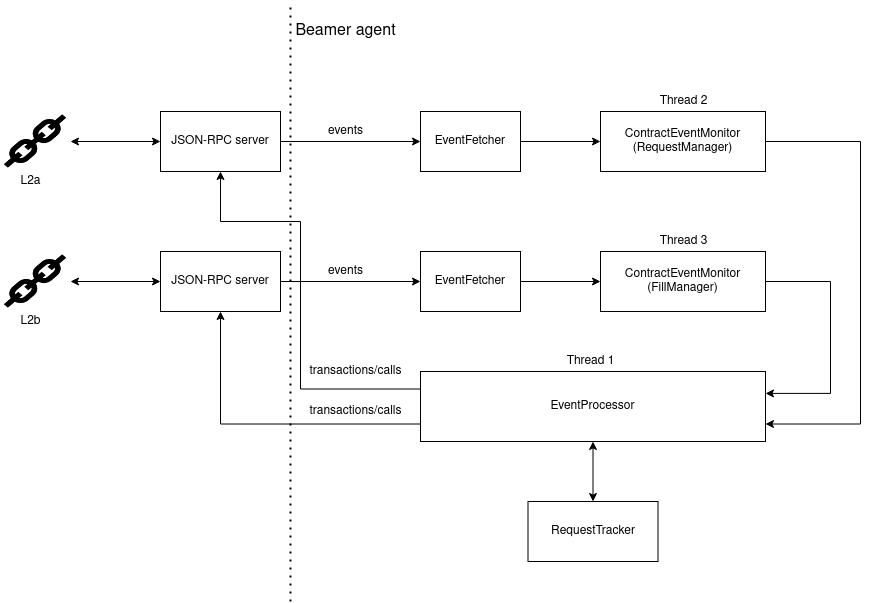
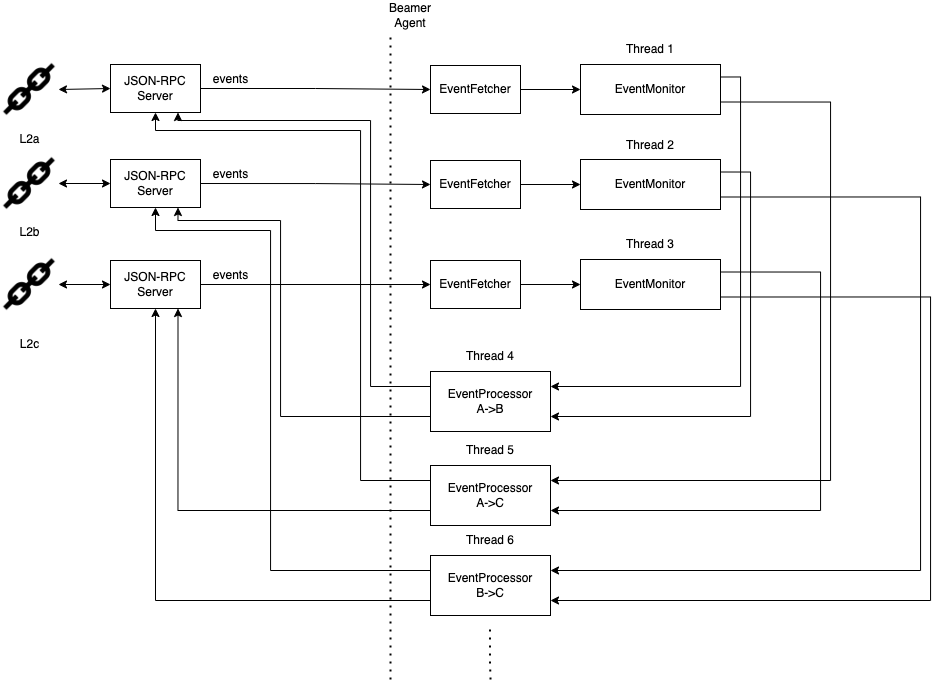
docs: update agent section for multiple event processors

diff --git a/docs/source/agent.rst b/docs/source/agent.rst
@@ -23,35 +23,34 @@ Agent architecture
 
 In order to satisfy above requirements, we opted for a simple thread-based approach where we moved
 all software components that could potentially block into their own threads. In particular, these
-are ``ContractEventMonitor`` and ``EventProcessor``.
+are ``EventMonitor`` and ``EventProcessor``.
+
+For every transfer direction, we have an ``EventProcessor`` running on its own thread.
 
 
-ContractEventMonitor
---------------------
+EventMonitor
+------------
 
-``ContractEventMonitor`` listens for blockchain events emitted by a given contract, decodes the events
+``EventMonitor`` listens for blockchain events emitted by given contracts, decodes the events
 into an internal event representation (event types in ``beamer.events``) and forwards decoded events
 to the ``EventProcessor``. The event monitor does not query the JSON-RPC server for events directly.
 Rather, it does that via an instance of ``EventFetcher``. Event fetcher handles communication with the
-JSON-RPC server and can block. However, even if the event fetcher for, say, L2a chain, blocks, since
+JSON-RPC server and can block. However, even if the event fetcher for, say, source chain, blocks, since
 it is only being invoked by the contract event monitor, which runs inside a thread, it won't block
 the entire agent. Therefore, even if a JSON-RPC server is very slow or the connection is otherwise
 unreliable, the agent as a whole will remain responsive.
 
-With the current contract implementation, we have one contract, ``RequestManager``, deployed on the
-source chain (L2a), and one contract, ``FillManager``, deployed on the target chain (L2b). Therefore
-we have two event monitors, one for each contract, and each event monitor has its own event fetcher,
-as can be seen in the figure above.  Each pair ``(EventFetcher, ContractEventMonitor)`` works
-independently of the other, allowing for very different speeds between the L2 chains.
+With the current implementation, we have an event monitor for every L2 chain, and each event monitor 
+has its own event fetcher, as can be seen in the figure above. Each pair ``(EventFetcher, EventMonitor)`` 
+works independently of the other, allowing for very different speeds between the L2 chains.
 
 
 EventProcessor
 --------------
 
 ``EventProcessor`` implements the Beamer protocol logic. It receives events from event monitors and
-stores them into a list. It is important to note that events are not separated based on the chain
-they came from -- all events are stored in a single list, in the order they arrived, regardless of
-the originating chain.
+stores them into a list. Events are filtered by source and target chains and are stored in 
+a single list, in the order they arrived.
 
 .. note::
 
@@ -145,7 +144,8 @@ option ``unsafe-fill-time``.
    :align: center
    :caption: Unsafe fill time
 
-In the graph, T1 is representing the request creation time, T2 is calculated using ``unsafe-fill-time`` option, and T3 is the request expiration.
+In the graph, T1 is representing the request creation time, T2 is calculated using ``unsafe-fill-time`` 
+option, and T3 is the request expiration.
 
 If unsafe time increases, T2 moves to left, so the agent will fill fewer requests.
 
